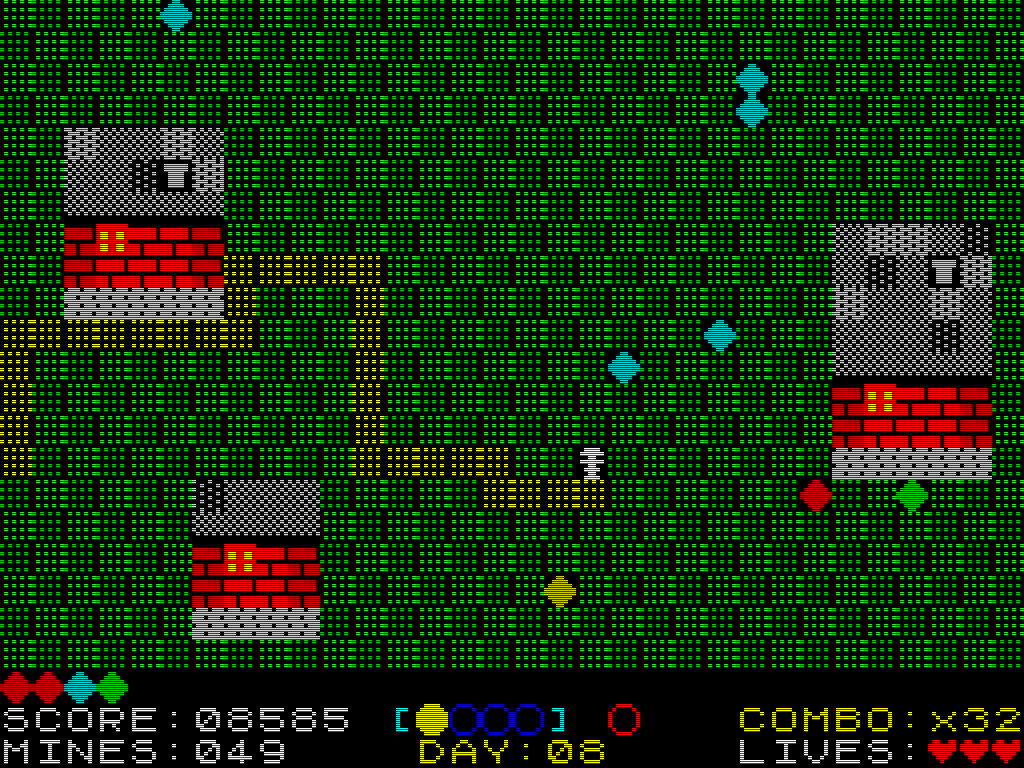
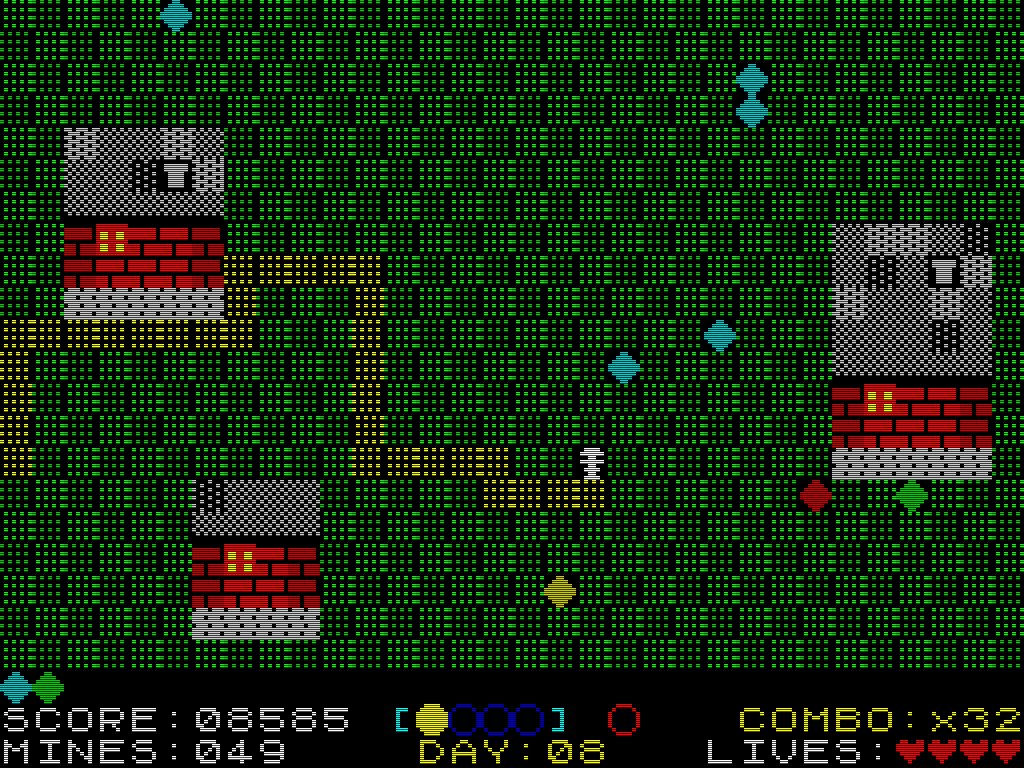
feat(gems): red gems convert to extra lives (2 red = +1 life)
The first real gem function: collecting RED_GEMS_PER_LIFE (2) red gems converts
them into +1 life — the pair is consumed (freeing backpack slots, so the cap-32
backpack finally has a reason to be spent) and an extra heart shows in the LIVES
HUD. Lives and backpack already persist in saves, so it carries across levels.

- config: RED_GEMS_PER_LIFE
- audio: playExtraLife() — a short rising triad, distinct from the win fanfare
- player: convert on red pickup in commitMove
- tests: 2 red -> +1 life & consumed, 4 red -> +2, other colours never
- docs/img/play.png: regenerated — the authentic walk now banks a 4th life

Changed region(s): [[0.6875, 0.9375, 0.9062, 1.0], [0.0, 0.875, 0.125, 0.9375]]

diff --git a/src/player.test.ts b/src/player.test.ts
@@ -18,6 +18,7 @@ vi.mock('./audio.ts', () => ({
   playExplosion: vi.fn(),
   playGemCollect: vi.fn(),
   playFootstep: vi.fn(),
+  playExtraLife: vi.fn(),
   isAmbientSoundActive: vi.fn().mockReturnValue(false),
 }))
 
@@ -338,6 +339,41 @@ describe('movePlayer — gem collection', () => {
     expect(state.inventory.red ?? 0).toBe(0)         // not collected
     expect(state.gemsCollected).toBe(beforeGems)     // not counted
     expect(state.map.getTile(6, 5)?.id).toBe('gem')  // gem remains, cell not claimed
+  })
+
+  it('converts every two red gems into an extra life (and consumes them)', () => {
+    const state = makeState(5, 5)
+    const lives0 = state.lives
+    state.map.setTile(6, 5, makeTileGem('red', C.RED))
+    step(state, 'right')
+    expect(state.lives).toBe(lives0)            // one red: no life yet
+    expect(state.inventory.red).toBe(1)
+    state.map.setTile(7, 5, makeTileGem('red', C.RED))
+    step(state, 'right')
+    expect(state.lives).toBe(lives0 + 1)        // second red → +1 life
+    expect(state.inventory.red ?? 0).toBe(0)    // pair consumed
+  })
+
+  it('a fourth red gem grants a second life', () => {
+    const state = makeState(5, 5)
+    const lives0 = state.lives
+    for (let i = 0; i < 4; i++) {
+      state.map.setTile(6 + i, 5, makeTileGem('red', C.RED))
+      step(state, 'right')
+    }
+    expect(state.lives).toBe(lives0 + 2)
+    expect(state.inventory.red ?? 0).toBe(0)
+  })
+
+  it('other gem colours never grant a life', () => {
+    const state = makeState(5, 5)
+    const lives0 = state.lives
+    state.map.setTile(6, 5, makeTileGem('cyan', C.CYAN))
+    state.map.setTile(7, 5, makeTileGem('cyan', C.CYAN))
+    step(state, 'right')
+    step(state, 'right')
+    expect(state.lives).toBe(lives0)
+    expect(state.inventory.cyan).toBe(2)
   })
 })
 

diff --git a/src/player.ts b/src/player.ts
@@ -1,8 +1,8 @@
 import { CELL, COLS, ROWS } from './constants.ts'
-import { START_COL, SCORE_PER_CELL, SCORE_MULTIPLIERS, EXPLOSION_FLASH_MS, LEVEL_COMPLETE_DELAY_MS, GEM_SCORE, COMBO_DURATION_MS, COMBO_MAX_MULTIPLIER, DAY_STEPS, NIGHT_STEPS, WALK_DURATION_MS } from './config.ts'
+import { START_COL, SCORE_PER_CELL, SCORE_MULTIPLIERS, EXPLOSION_FLASH_MS, LEVEL_COMPLETE_DELAY_MS, GEM_SCORE, RED_GEMS_PER_LIFE, COMBO_DURATION_MS, COMBO_MAX_MULTIPLIER, DAY_STEPS, NIGHT_STEPS, WALK_DURATION_MS } from './config.ts'
 import { type GameState, countWarningMines, applyClusterBlast, gemColor, inventoryTotal, INVENTORY_CAP, type MineType } from './game.ts'
 import type { Direction } from './input.ts'
-import { playWarning, playExplosion, playGemCollect, playFootstep, isAmbientSoundActive } from './audio.ts'
+import { playWarning, playExplosion, playGemCollect, playFootstep, playExtraLife, isAmbientSoundActive } from './audio.ts'
 import { makeTileVisited, makeTileGround, makeTileMine, makeTileGem, makeTileFlag, TILE_EXPLODED } from './sprites.ts'
 import { createTween, tickTween, tickAnimation, resetAnimation } from 'zx-kit'
 
@@ -129,6 +129,12 @@ function commitMove(state: GameState, newCol: number, newRow: number): void {
     const cMult = comboMultiplier(state.comboCount)
     state.score += Math.round(GEM_SCORE * cMult)
     playGemCollect(state.comboCount)
+    // Every RED_GEMS_PER_LIFE red gems convert into an extra life, freeing slots.
+    if (gemKind === 'red' && state.inventory.red >= RED_GEMS_PER_LIFE) {
+      state.inventory.red -= RED_GEMS_PER_LIFE
+      state.lives++
+      playExtraLife()
+    }
   }
 
   const nearby = countWarningMines(state.map, newCol, newRow)

diff --git a/src/config.ts b/src/config.ts
@@ -199,6 +199,10 @@ export default 12
 // Base gem collection bonus (before combo multiplier)
 export const GEM_SCORE = 1000
 
+// Collecting this many RED gems converts them into +1 life (and frees their
+// backpack slots). The first real gem "function" — see GEM_KINDS in game.ts.
+export const RED_GEMS_PER_LIFE = 2
+
 // ── Combo system ──────────────────────────────────────────────────────────────
 
 // How long (ms) a combo remains active without stepping on a new cell

diff --git a/src/audio.ts b/src/audio.ts
@@ -124,6 +124,15 @@ export function playGameOver(): void {
   ])
 }
 
+export function playExtraLife(): void {
+  // Short bright rising triad — distinct from the level-win fanfare.
+  playPattern([
+    { freq: 392, dur: 90 },
+    { freq: 523, dur: 90 },
+    { freq: 659, dur: 150 },
+  ])
+}
+
 export function startApproachSound(): void {
   const ctx = getAudioContext()
   if (!ctx || approachOsc || airplaneOsc) return
